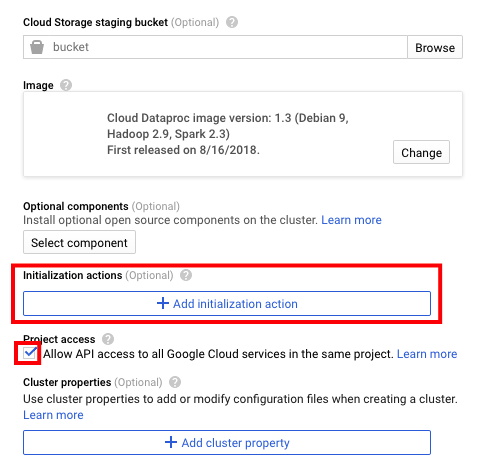
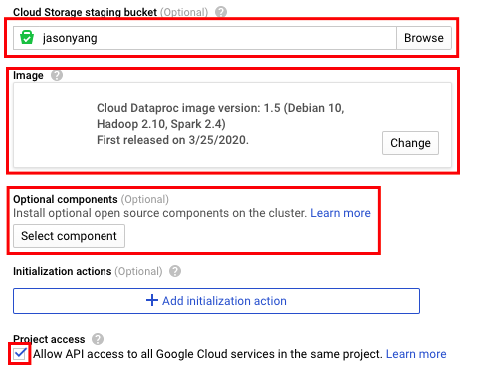
working pyspark code

Changed region(s): [[0.0, 0.0, 0.9588, 0.9947], [0.1856, 0.234, 0.7113, 0.3803]]

diff --git a/jupyter-pyspark/README.md b/jupyter-pyspark/README.md
@@ -1,0 +1,6 @@
+
+
+```
+gcloud beta dataproc clusters create my-cluster --enable-component-gateway 
+--bucket {your-bucket} --region us-central1 --subnet default --zone us-central1-c --master-machine-type n1-standard-4 --master-boot-disk-size 100 --num-workers 2 --worker-machine-type n1-standard-4 --worker-boot-disk-size 100 --image-version 1.5-debian10 --optional-components ANACONDA,JUPYTER --max-idle 21600s --scopes 'https://www.googleapis.com/auth/cloud-platform' --project {your-project-name}
+```
